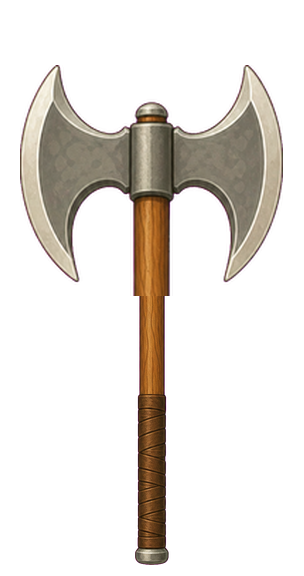
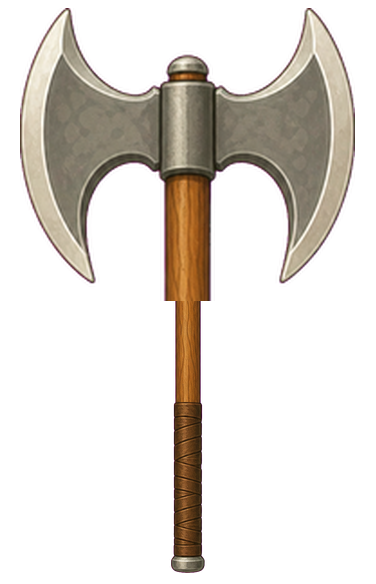
Weapons: the Dragonslayer gets its own green-and-gold design; the Giant Axe's head grows again
- Dragonslayer (owner: a really cool design, a little exaggerated, green and golden): a gold
  dragon-wing crossguard with an emerald, a gold dragon-head pommel, an emerald grip wound with
  gold wire, an emerald fuller with gold scales. tools/art/jobs/weapons-r7.json, one candidate,
  cut with weaponfit at the great sword's length and grip on a 256 px canvas for the wings.
- Giant Axe: head 1.8x each way (about 3.2x the original area), grown about the old head's
  centre, the canvas padded at the top so the grip keeps its place.

Changed region(s): [[0.0296, 0.0, 0.9474, 1.0]]

diff --git a/docs/equipment-plan.md b/docs/equipment-plan.md
@@ -201,9 +201,14 @@ takes over; nothing is to be done about it.
 - **A file may be wider or taller than its category's canvas**: padded equally both sides, or at the top. The grip keeps
   its place from the bottom and the centre line (`ArmRig.setHeld`), so a bigger head or a longer blade needs no new numbers.
 - **Sizes set by the owner:** Short Sword's blade 15 % shorter and Long Sword's 15 % longer than the old shared sword
-  (Glowing Sword and Sword of Song take the Long Sword's drawing); Great Sword 20 % thicker; Giant Axe's head twice the
-  area (x1.41 each way, top where it was, so the axe is no longer). Previews: `docs/art/equipment/sword-lengths.png`,
-  `giant-axe.png`.
+  (Glowing Sword and Sword of Song take the Long Sword's drawing); Great Sword 20 % thicker; Giant Axe's head 1.8x each
+  way (about 3.2x the area; owner: 'even bigger'), grown about the old head's centre so it costs the handle little and
+  the axe only a little length. Previews: `docs/art/equipment/sword-lengths.png`,
+  `giant-axe.png`, `dragonslayer-giant-axe.png`.
+- **Dragonslayer, its own design** (owner: 'really cool', a little exaggerated, green and gold;
+  `tools/art/jobs/weapons-r7.json`, one candidate, cut by weaponfit at the great sword's length and grip on a 256 px canvas):
+  a gold dragon-wing crossguard with an emerald, a gold dragon-head pommel, an emerald grip wound with gold wire, and
+  an emerald fuller with gold scales up a steel blade.
 - **Prop effects** (`heldFx` on the row, `Render/PixiRenderer/weaponFX.js`): an effect is built as a child of the
   weapon's sprite, so it moves, turns, hides and goes with the prop through every guard and attack; the arm rig ticks it
   each frame. One kind so far, `glow` (or `glow:#rrggbb`): a breathing halo on the BLADE only (everything above the
